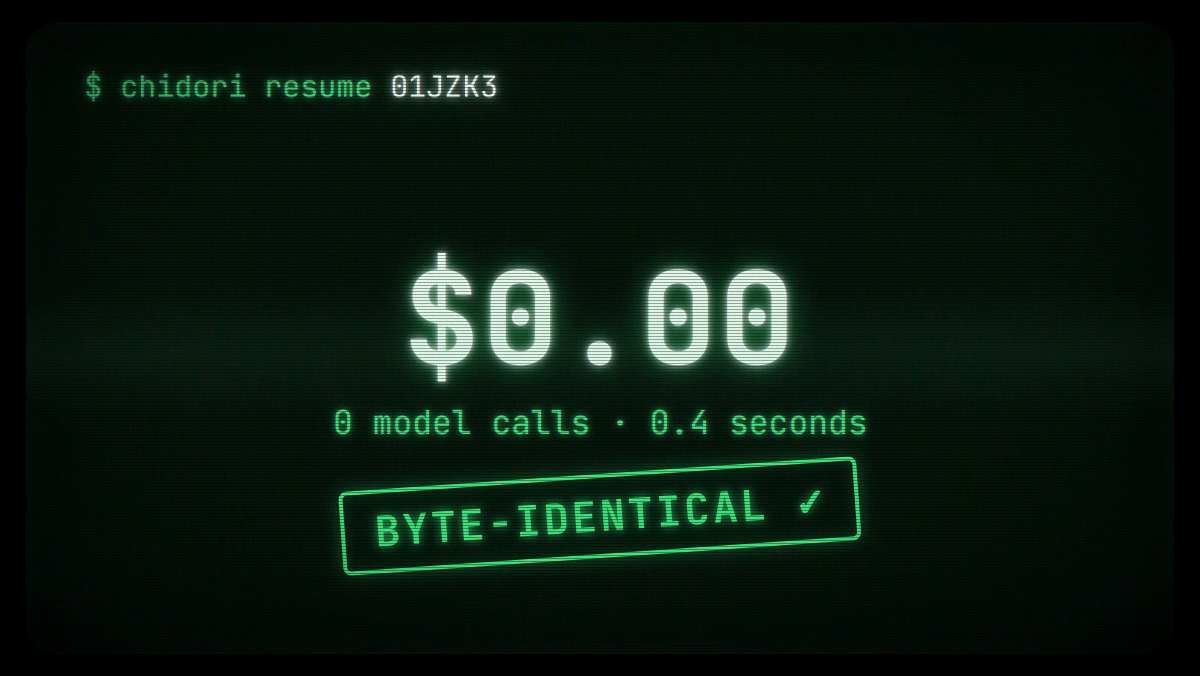
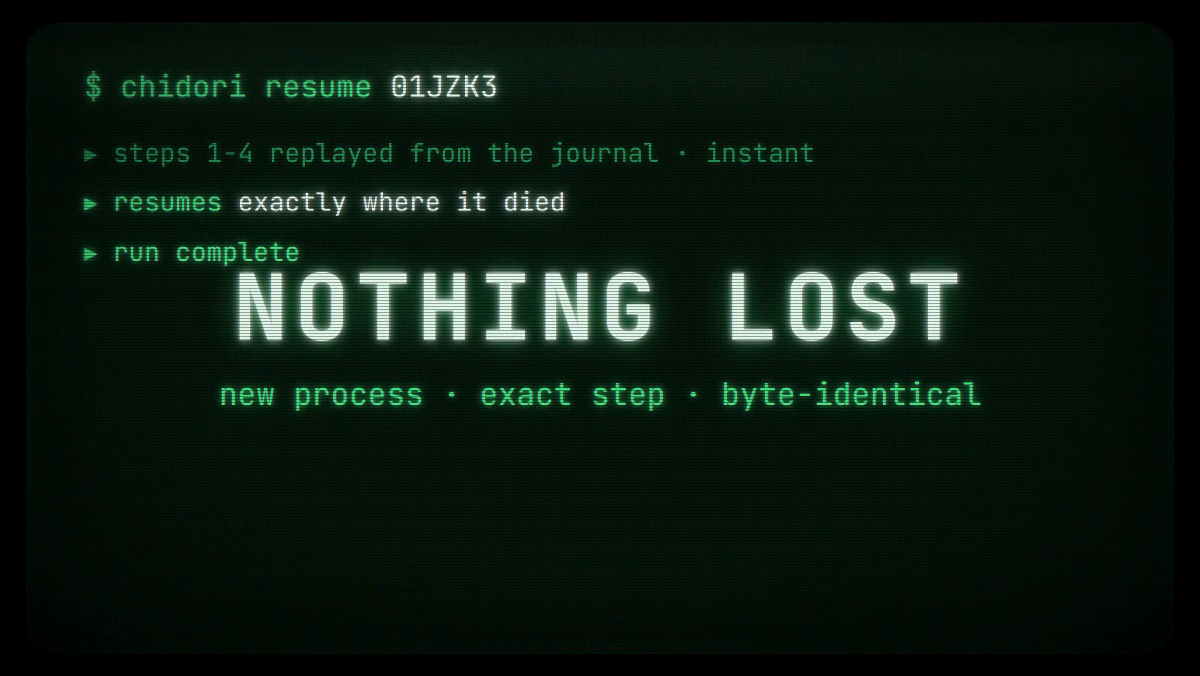
docs/launch: reframe around authoring and capabilities
Code-first spine: the one-function agent leads, capabilities (MCP, tools,
approvals, chat, branching, providers) up front, durability as the payoff,
engine as proof. Video re-cut: code -> run -> SIGKILL -> resume -> NOTHING
LOST. agent-code.png is the tweet-1 hero image.

Claude-Session: https://claude.ai/code/session_01HZhky1VZQLCA7mz6i7dnX3

Changed region(s): [[0.0617, 0.2796, 0.8325, 0.8698], [0.0617, 0.2175, 0.555, 0.2485], [0.5858, 0.2175, 0.6783, 0.2485]]

diff --git a/docs/launch/replay-demo-crt.html b/docs/launch/replay-demo-crt.html
@@ -38,10 +38,12 @@
          1.3px 0 1px rgba(255,60,60,.28), -1.3px 0 1px rgba(60,120,255,.28); }
   .dim { color:#2d9c53; text-shadow: 0 0 6px rgba(45,156,83,.5); }
   .amb { color:#ffc14d; text-shadow: 0 0 8px rgba(255,193,77,.7), 0 0 24px rgba(255,150,30,.35); }
+  .red { color:#ff6b5c; text-shadow: 0 0 8px rgba(255,107,92,.8), 0 0 26px rgba(255,60,40,.4); }
   .hot { color:#eafff0; text-shadow: 0 0 9px rgba(234,255,240,.9), 0 0 30px rgba(74,255,127,.6),
          1.6px 0 1px rgba(255,60,60,.3), -1.6px 0 1px rgba(60,120,255,.3); }
 
-  .cmd { font-size:30px; margin-bottom:26px; }
+  .cmd { font-size:30px; margin-bottom:22px; }
+  .code { font-size:24px; line-height:1.78; }
   .ln  { font-size:26px; line-height:1.9; animation: pop .14s steps(3); }
   @keyframes pop { 0% {opacity:0;} 34% {opacity:1;} 67% {opacity:.35;} 100% {opacity:1;} }
 
@@ -63,6 +65,11 @@
     box-shadow:0 0 18px rgba(74,255,127,.35), inset 0 0 14px rgba(74,255,127,.2);
     animation: slam .18s steps(3); }
 
+  #killflash { position:absolute; inset:0; background:rgba(255,80,60,.18); mix-blend-mode:screen; }
+  #hero { position:absolute; left:0; right:0; top:224px; text-align:center;
+    font-size:92px; font-weight:800; letter-spacing:6px; animation: slam .2s steps(4); }
+  #herosub { position:absolute; left:0; right:0; top:352px; text-align:center; font-size:31px; }
+
   /* ---------- glitch tear ---------- */
   .tear { position:absolute; left:0; right:0; background:rgba(140,255,190,.6);
     mix-blend-mode:screen; animation: tearjit .12s steps(3) infinite; }
@@ -79,45 +86,52 @@
 </style>
 </head>
 <body>
-<div id="root" data-composition-id="root" data-width="1200" data-height="676" data-duration="11.6">
+<div id="root" data-composition-id="root" data-width="1200" data-height="676" data-duration="14.7">
   <div id="bezel"><div id="screen">
     <div id="content">
 
-      <!-- ================= ACT 1 : the run (0 – 4.6s) ================= -->
-      <div class="clip cmd g" data-start="0.15" data-duration="4.45">$ chidori run agent.ts</div>
-      <div class="clip ln g"  data-start="0.85" data-duration="3.75">▸ prompt claude-sonnet-5 <span class="dim">··········</span> $0.42</div>
-      <div class="clip ln g"  data-start="1.35" data-duration="3.25">▸ tool tests.run <span class="dim">·······</span> 41 passed</div>
-      <div class="clip ln amb" data-start="1.85" data-duration="2.75">⏸ human: "ship it?" <span class="dim">····</span> approved 2h later</div>
-      <div class="clip ln g"  data-start="2.45" data-duration="2.15">▸ prompt claude-sonnet-5 <span class="dim">··········</span> $0.38</div>
-      <div class="clip ln hot" data-start="3.05" data-duration="1.55">▸ run complete → journal 01JZK3</div>
-      <div id="meter">
-        <div class="clip v amb" data-start="0.85" data-duration="0.7">$0.42 · 1 model call</div>
-        <div class="clip v amb" data-start="1.55" data-duration="0.9">$1.71 · 9 model calls</div>
-        <div class="clip v amb" data-start="2.45" data-duration="0.8">$3.90 · 31 model calls</div>
-        <div class="clip v amb" data-start="3.25" data-duration="1.35">$4.83 · 47 model calls · 3m12s</div>
-      </div>
+      <!-- ========= ACT 1 : the code (0 - 4.3s) ========= -->
+      <div class="clip cmd g" data-start="0.15" data-duration="4.15">$ cat agent.ts</div>
+      <div class="clip code ln hot" data-start="0.7" data-duration="3.6">export async function agent(input, chidori) {</div>
+      <div class="clip code ln g" data-start="1.15" data-duration="3.15">&nbsp; const plan = await chidori.prompt("Plan: " + input.bug);</div>
+      <div class="clip code ln g" data-start="1.6" data-duration="2.7">&nbsp; const diff = await chidori.tool("repo.apply", { plan });</div>
+      <div class="clip code ln amb" data-start="2.05" data-duration="2.25">&nbsp; await chidori.input("Ship it?", { type: "approval" });</div>
+      <div class="clip code ln g" data-start="2.5" data-duration="1.8">&nbsp; return chidori.prompt("Changelog:\n" + diff);</div>
+      <div class="clip code ln hot" data-start="2.9" data-duration="1.4">}</div>
+      <div class="clip ln amb" data-start="3.35" data-duration="0.95" style="margin-top:20px;">&#9656; a complete, durable, production agent</div>
 
-      <!-- ================= glitch cut (4.6 – 4.85s) ================= -->
-      <div class="clip tear" data-start="4.6" data-duration="0.25" style="top:120px; height:14px;"></div>
-      <div class="clip tear" data-start="4.6" data-duration="0.25" style="top:300px; height:8px;"></div>
-      <div class="clip tear" data-start="4.65" data-duration="0.2" style="top:470px; height:18px;"></div>
+      <!-- ========= glitch cut ========= -->
+      <div class="clip tear" data-start="4.3" data-duration="0.22" style="top:140px; height:14px;"></div>
+      <div class="clip tear" data-start="4.35" data-duration="0.18" style="top:400px; height:18px;"></div>
 
-      <!-- ================= ACT 2 : the replay (4.85 – 8.3s) ================= -->
-      <div class="clip cmd g" data-start="4.85" data-duration="3.45">$ chidori resume <span class="hot">01JZK3</span></div>
-      <div class="clip ln dim" data-start="5.25" data-duration="0.9">▸ prompt <span class="g">journal</span> · tool <span class="g">journal</span> · human <span class="g">journal</span></div>
-      <div class="clip ln dim" data-start="5.45" data-duration="0.7">▸ 47 calls replayed · nobody re-asked</div>
-      <div id="zero" class="clip hot" data-start="6.15" data-duration="2.15">$0.00</div>
-      <div id="zerosub" class="clip g" data-start="6.35" data-duration="1.95">0 model calls · 0.4 seconds</div>
-      <div id="stamp" class="clip" data-start="7.0" data-duration="1.3"><span>BYTE-IDENTICAL ✓</span></div>
+      <!-- ========= ACT 2 : run it, kill it (4.55 - 8.4s) ========= -->
+      <div class="clip cmd g" data-start="4.55" data-duration="3.85">$ chidori run agent.ts</div>
+      <div class="clip ln g"  data-start="5.15" data-duration="3.25">&#9656; prompt <span class="dim">&#183;&#183;&#183;&#183;&#183;&#183;</span> plan ready</div>
+      <div class="clip ln g"  data-start="5.65" data-duration="2.75">&#9656; tool repo.apply <span class="dim">&#183;&#183;&#183;&#183;</span> 12 files changed</div>
+      <div class="clip ln amb" data-start="6.15" data-duration="2.25">&#9646; human: "Ship it?" <span class="dim">&#183;&#183;&#183;&#183;</span> approved</div>
+      <div class="clip ln g"  data-start="6.7" data-duration="1.7">&#9656; prompt <span class="dim">&#8212; changelog streaming&#8230;</span></div>
+      <div class="clip killflash" data-start="7.3" data-duration="0.22"></div>
+      <div class="clip tear" data-start="7.3" data-duration="0.3" style="top:110px; height:16px;"></div>
+      <div class="clip tear" data-start="7.35" data-duration="0.25" style="top:330px; height:10px;"></div>
+      <div class="clip tear" data-start="7.3" data-duration="0.3" style="top:480px; height:20px;"></div>
+      <div class="clip ln red" data-start="7.55" data-duration="0.85" style="font-size:34px; margin-top:18px;">&#10007; SIGKILL &#8212; process died mid-stream</div>
 
-      <!-- ================= glitch cut (8.3 – 8.5s) ================= -->
-      <div class="clip tear" data-start="8.3" data-duration="0.2" style="top:200px; height:12px;"></div>
-      <div class="clip tear" data-start="8.35" data-duration="0.15" style="top:420px; height:16px;"></div>
+      <!-- ========= ACT 3 : resume (8.6 - 11.7s) ========= -->
+      <div class="clip cmd g" data-start="8.6" data-duration="3.1">$ chidori resume <span class="hot">01JZK3</span></div>
+      <div class="clip ln dim" data-start="9.0" data-duration="2.7">&#9656; steps 1-4 replayed from the journal &#183; instant</div>
+      <div class="clip ln g"  data-start="9.4" data-duration="2.3">&#9656; resumes <span class="hot">exactly where it died</span></div>
+      <div class="clip ln g"  data-start="9.85" data-duration="1.85">&#9656; run complete</div>
+      <div id="hero" class="clip hot" data-start="10.3" data-duration="1.4">NOTHING LOST</div>
+      <div id="herosub" class="clip g" data-start="10.55" data-duration="1.15">new process &#183; exact step &#183; byte-identical</div>
 
-      <!-- ================= ACT 3 : end card (8.5 – 11.5s) ================= -->
-      <div id="wordmark" class="clip hot" data-start="8.5" data-duration="3.0">CHIDORI</div>
-      <div id="tagline" class="clip g" data-start="8.8" data-duration="2.7">Every agent run is a recording.</div>
-      <div id="repo" class="clip dim" data-start="9.1" data-duration="2.4">github.com/ThousandBirdsInc/chidori<span class="blinkc g">▮</span></div>
+      <!-- ========= glitch cut ========= -->
+      <div class="clip tear" data-start="11.7" data-duration="0.2" style="top:200px; height:12px;"></div>
+      <div class="clip tear" data-start="11.75" data-duration="0.15" style="top:420px; height:16px;"></div>
+
+      <!-- ========= ACT 4 : end card (11.9 - 14.6s) ========= -->
+      <div id="wordmark" class="clip hot" data-start="11.9" data-duration="2.7">CHIDORI</div>
+      <div id="tagline" class="clip g" data-start="12.2" data-duration="2.4">An agent is one TypeScript function.</div>
+      <div id="repo" class="clip dim" data-start="12.5" data-duration="2.1">github.com/ThousandBirdsInc/chidori<span class="blinkc g">&#9646;</span></div>
 
     </div>
     <div class="ov" id="grille"></div>

diff --git a/docs/launch/twitter-2026.md b/docs/launch/twitter-2026.md
@@ -1,62 +1,61 @@
 # Twitter/X launch thread (2026)
 
-11 tweets. Attach `replay-demo-crt.mp4` (in this folder) to tweet 1 — that's
-the CRT cut; `replay-demo.mp4` is the earlier flat version. Attach an MP4
-conversion of `docs/media/react-agent.svg` to tweet 6 (X rejects SVG).
-Tweets 5 and 10 run slightly past 280 characters and need X Premium or a trim.
+11 tweets. Attachments: `agent-code.png` on tweet 1, `replay-demo-crt.mp4`
+(the code -> run -> kill -> resume CRT cut) on tweet 4, and an MP4 conversion
+of `docs/media/react-agent.svg` on tweet 7 (X rejects SVG). A few tweets run
+past 280 characters and need X Premium or a trim.
 
 ---
 
-**1/** *(attach replay-demo-crt.mp4)*
+**1/** *(attach agent-code.png)*
 
-Three years ago I open-sourced an AI agent framework. I just rewrote nearly all of it, down to a from-scratch JavaScript engine in Rust.
+This is a complete production agent.
 
-The result: any agent run replays byte-for-byte, with zero model calls. 🧵
+The prompt, the tool call, the human approval gate — the whole thing is one TypeScript function. There is no graph or DSL underneath. This is the entire authoring model.
+
+I spent three years getting it down to this 🧵
 
 **2/**
 
-The 2023 version was a declarative framework. Reactive graph, embedded interpreter, time-travel debugging, evals.
+Frameworks made agents feel like framework code. Model calls buried three abstraction layers deep, and when something breaks you end up debugging the framework.
 
-The bet was right. Reproduce what an agent did five steps back and you can make it reliable. The design was wrong. Nobody thinks in reactive nodes.
+So the design goal for the rewrite was simple: disappear. If you can write a function, you already know Chidori.
 
 **3/**
 
-And the DSL had a bigger problem. Agents get generated now, and models write idiomatic TypeScript far better than any custom graph format.
+That one function reaches everything through the chidori object: prompts, typed tools (plain TS files), MCP servers, human approvals, multi-turn chat, parallel branches.
 
-A constrained DSL looked like a safety feature. Once code writes your agents, it's a worse compile target.
+Anthropic, OpenAI, OpenRouter, LiteLLM. chidori login gets you running with no API key at all.
 
-**4/**
+**4/** *(attach replay-demo-crt.mp4)*
 
-So agents are now plain async TypeScript functions. Every model call, tool call, and HTTP request goes through the runtime and gets recorded.
+And the plain function comes with superpowers. Kill the process mid-run. Resume in a new process, at the exact step, byte-identical.
 
-Record everything and you can replay everything. Replay is only worth something if it's exact.
+Your function contains no retry logic, no state machine, no checkpointing code. The runtime absorbs all of it.
 
 **5/**
 
-Exact meant owning the engine. So Chidori ships its own, built from scratch in Rust. oxc parser, bytecode, stack VM, zero unsafe. 99% of the Test262 tests it executes pass, and the skips are listed in the repo.
+It works because the agent never touches the world directly. Every prompt, tool call, and fetch goes through the runtime and gets recorded.
 
-The runtime owns the clock, randomness, and every I/O call the agent sees.
+A run becomes a journal you can resume after a crash, fork into variants, or replay to debug. Commit one to git and you have a regression test.
 
-**6/** *(attach MP4 converted from docs/media/react-agent.svg)*
+**6/**
+
+Exact replay required owning the clock, randomness, and every I/O call. So Chidori ships its own JavaScript engine, built from scratch in Rust.
+
+99% of the Test262 tests it executes pass, and the skips are listed in the repo. One binary. No Node, no cluster, nothing to deploy onto.
+
+**7/** *(attach MP4 converted from docs/media/react-agent.svg)*
 
 Then I ran React on it. Unmodified React 18.
 
 An agent iterates on a component against its own DOM tests, forks a variant, and replays its earlier model calls for free. Human feedback gets recorded too, so a replay never re-asks the person.
 
-**7/**
+**8/**
 
 One person built this by directing coding agents. The engine, the Test262 grind, the runtime.
 
 I trusted code I didn't type because every change ran through conformance gates and every run was replayable. I used the exact discipline this framework sells. It held.
-
-**8/**
-
-Exact replay in practice:
-
-- crash mid-run, resume in a fresh process
-- pause for a human, pick up days later
-- race strategies across real OS threads, still deterministic
-- commit a run to git as an integration test that costs $0 and runs in ms
 
 **9/**
 

diff --git a/docs/launch/hn-2026.md b/docs/launch/hn-2026.md
@@ -1,30 +1,42 @@
 # Hacker News launch post (2026)
 
 Submit as a Show HN text post. The body below is written for HN's renderer:
-no Markdown bold/backticks (they display literally), the curl line is
-indented two spaces to render as code, and bare URLs auto-link.
+no Markdown bold/backticks (they display literally), code lines are indented
+two spaces to render monospaced, and bare URLs auto-link.
 
-## Title (77 chars, under HN's 80 limit)
+## Title (67 chars, under HN's 80 limit)
 
-Show HN: Chidori – From-scratch JS engine in Rust for reproducible AI agents
+Show HN: Chidori – Durable AI agents as plain TypeScript functions
+
+(Alternative, engine-led: "Show HN: Chidori – From-scratch JS engine in Rust
+for reproducible AI agents")
 
 ## Body
 
-I posted Chidori here in 2023 [1] as a "declarative framework for AI agents": a reactive graph, an embedded Deno + Starlark interpreter, time-travel debugging, evals. The argument was that agents are long-running and unpredictable, so the only way to make one reliable is to reproduce what it did five steps back. Three years and a near-total rewrite later, that's still the argument. Everything else changed.
+I posted Chidori here in 2023 [1] as a "declarative framework for AI agents": a reactive graph, an embedded Deno + Starlark interpreter, time-travel debugging, evals. Three years and a near-total rewrite later, the goal is unchanged and almost everything else is different.
 
-The graph was a mistake. People think in if-statements and loops, and there was a deeper problem: agents get generated now, and models write clean TypeScript far better than any bespoke format. A constrained DSL used to look like a safety feature. Once code is what produces your agents, it's a worse compile target. So agents are plain async TypeScript functions. Every side effect (model calls, tools, fetch) goes through the runtime as a recorded host call, and the runtime ends up holding a complete record of the run.
+The biggest change is what an agent is. The graph is gone. Nobody thinks in reactive nodes, and agents get generated now anyway — models write clean TypeScript far better than any bespoke format. So an agent is one plain async TypeScript function:
 
-The core of the rewrite: agents don't run on Node or V8. They run on Chidori's own JavaScript engine, built from scratch in Rust. oxc parser, bytecode compiler, stack VM, zero unsafe. It passes 99% of the Test262 tests it executes and skips about 7.5k tests for features it doesn't implement, with every skip listed in the repo. I went this far down because owning the engine is the only way to make replay a hard guarantee: the runtime controls the clock, randomness, and every I/O call the agent can observe. To be precise about the claim, the first run is as non-deterministic as any LLM. What's guaranteed is that re-execution against the recorded journal is byte-identical, and a checkpoint is validated against the agent source it was recorded from, so a stale journal fails loudly.
+  export async function agent(input, chidori) {
+    const plan = await chidori.prompt("Plan: " + input.bug);
+    const diff = await chidori.tool("repo.apply", { plan });
+    await chidori.input("Ship it?", { type: "approval" });
+    return chidori.prompt("Changelog:\n" + diff);
+  }
 
-That exactness is what everything else stands on. Kill the process and resume in a new one. Pause for a human and pick up days later. Fork competing strategies across real OS threads, where each branch writes a disjoint slice of the log, so even parallel runs replay exactly. Commit a recorded run to git as an integration test that costs $0 and runs in milliseconds. And as proof the engine isn't a toy, unmodified React 18 renders on it: an agent can iterate on a component against its own DOM tests, replaying its earlier model calls for free.
+That's a complete production agent with a tool call and a human approval gate. There is nothing else to learn. Everything arrives through that chidori object: prompts, typed tools written as ordinary TS files, MCP servers, human input and named signals, multi-turn conversations plus a built-in chat REPL, parallel branches across real OS threads, and a filesystem workspace scoped to the project directory. Providers are Anthropic, OpenAI, OpenRouter, and LiteLLM-compatible proxies, and chidori login signs into OpenRouter from the browser, so you can try it without an API key.
+
+Here's what makes the plain function viable in production: the agent never touches the world directly. Every side effect goes through the runtime as a recorded host call, so a run is a journal. Kill the process mid-run and resume in a new process at the exact step. Pause for that approval and pick it up days later without holding anything open. Fork competing strategies across threads. Commit a recorded run to git and it's a regression test that runs in milliseconds. The function above contains no retry logic and no checkpointing code, because the runtime absorbs the production concerns.
+
+To be precise about the replay claim: the first run is as non-deterministic as any LLM. What's guaranteed is that re-execution against the recorded journal is byte-identical, and a checkpoint is validated against the agent source it came from, so a stale journal fails loudly. That guarantee required owning the clock, randomness, and every I/O call the agent can observe, which is why agents run on Chidori's own JavaScript engine, built from scratch in Rust. oxc parser, bytecode compiler, stack VM, zero unsafe. It passes 99% of the Test262 tests it executes and skips about 7.5k tests for features it doesn't implement, with every skip listed. As proof the engine isn't a toy, unmodified React 18 renders on it, and an agent can iterate on a component against its own DOM tests, replaying its earlier model calls for free.
 
 I should be honest that a project this size got built by one person directing coding agents: the engine, the Test262 grind, much of the runtime. The reason I could trust code I didn't type is the same loop I'm shipping. Every change gated by conformance tests, every run recorded and replayable. That's also the longer bet: if tools are just TypeScript and agents write good TypeScript, an agent can factor its own hard-won work into typed tools it reaches for later. I'm early on that loop, but it's what this architecture is for.
 
-On the now-crowded field: Temporal replays journaled histories too, and has for a decade, but you split your code into workflows and activities and keep the workflow half deterministic by discipline; break the rule and replay diverges. LangGraph checkpoints between graph nodes. Vercel's eve, from a few weeks ago, records traces of agents that get a real shell. Chidori's difference is that there is no split and no discipline to maintain. Determinism is a property of the engine, so it can't be violated by user code. It also ships as one binary, no cluster, no Postgres, no Node, and chidori run --isolate puts untrusted code in its own child process behind seccomp, Landlock, and an empty network namespace (Seatbelt on macOS).
+On the now-crowded field: Temporal replays journaled histories too, and has for a decade, but you split your code into workflows and activities and keep the workflow half deterministic by discipline; break the rule and replay diverges. LangGraph checkpoints between graph nodes. Vercel's eve records traces of agents that get a real shell. Chidori's difference is that there is no split and no discipline to maintain. Determinism is a property of the engine, so it can't be violated by user code. It also ships as one binary, no cluster, no Postgres, no Node, and chidori run --isolate puts untrusted code in its own child process behind seccomp, Landlock, and an empty network namespace (Seatbelt on macOS).
 
 Honest cost: an interpreter with no JIT runs compute-heavy microbenchmarks 10-40x slower than Node or Bun, worse on tight numeric loops. The benchmark suite is in the repo. Agent workloads are dominated by model and I/O waits where this barely registers, and startup is about 10x faster than Node.
 
-Install is one line, and chidori login signs into OpenRouter from the browser, so you don't need an API key to try it:
+Install is one line:
 
   curl -fsSL https://raw.githubusercontent.com/ThousandBirdsInc/chidori/main/scripts/install.sh | sh
 